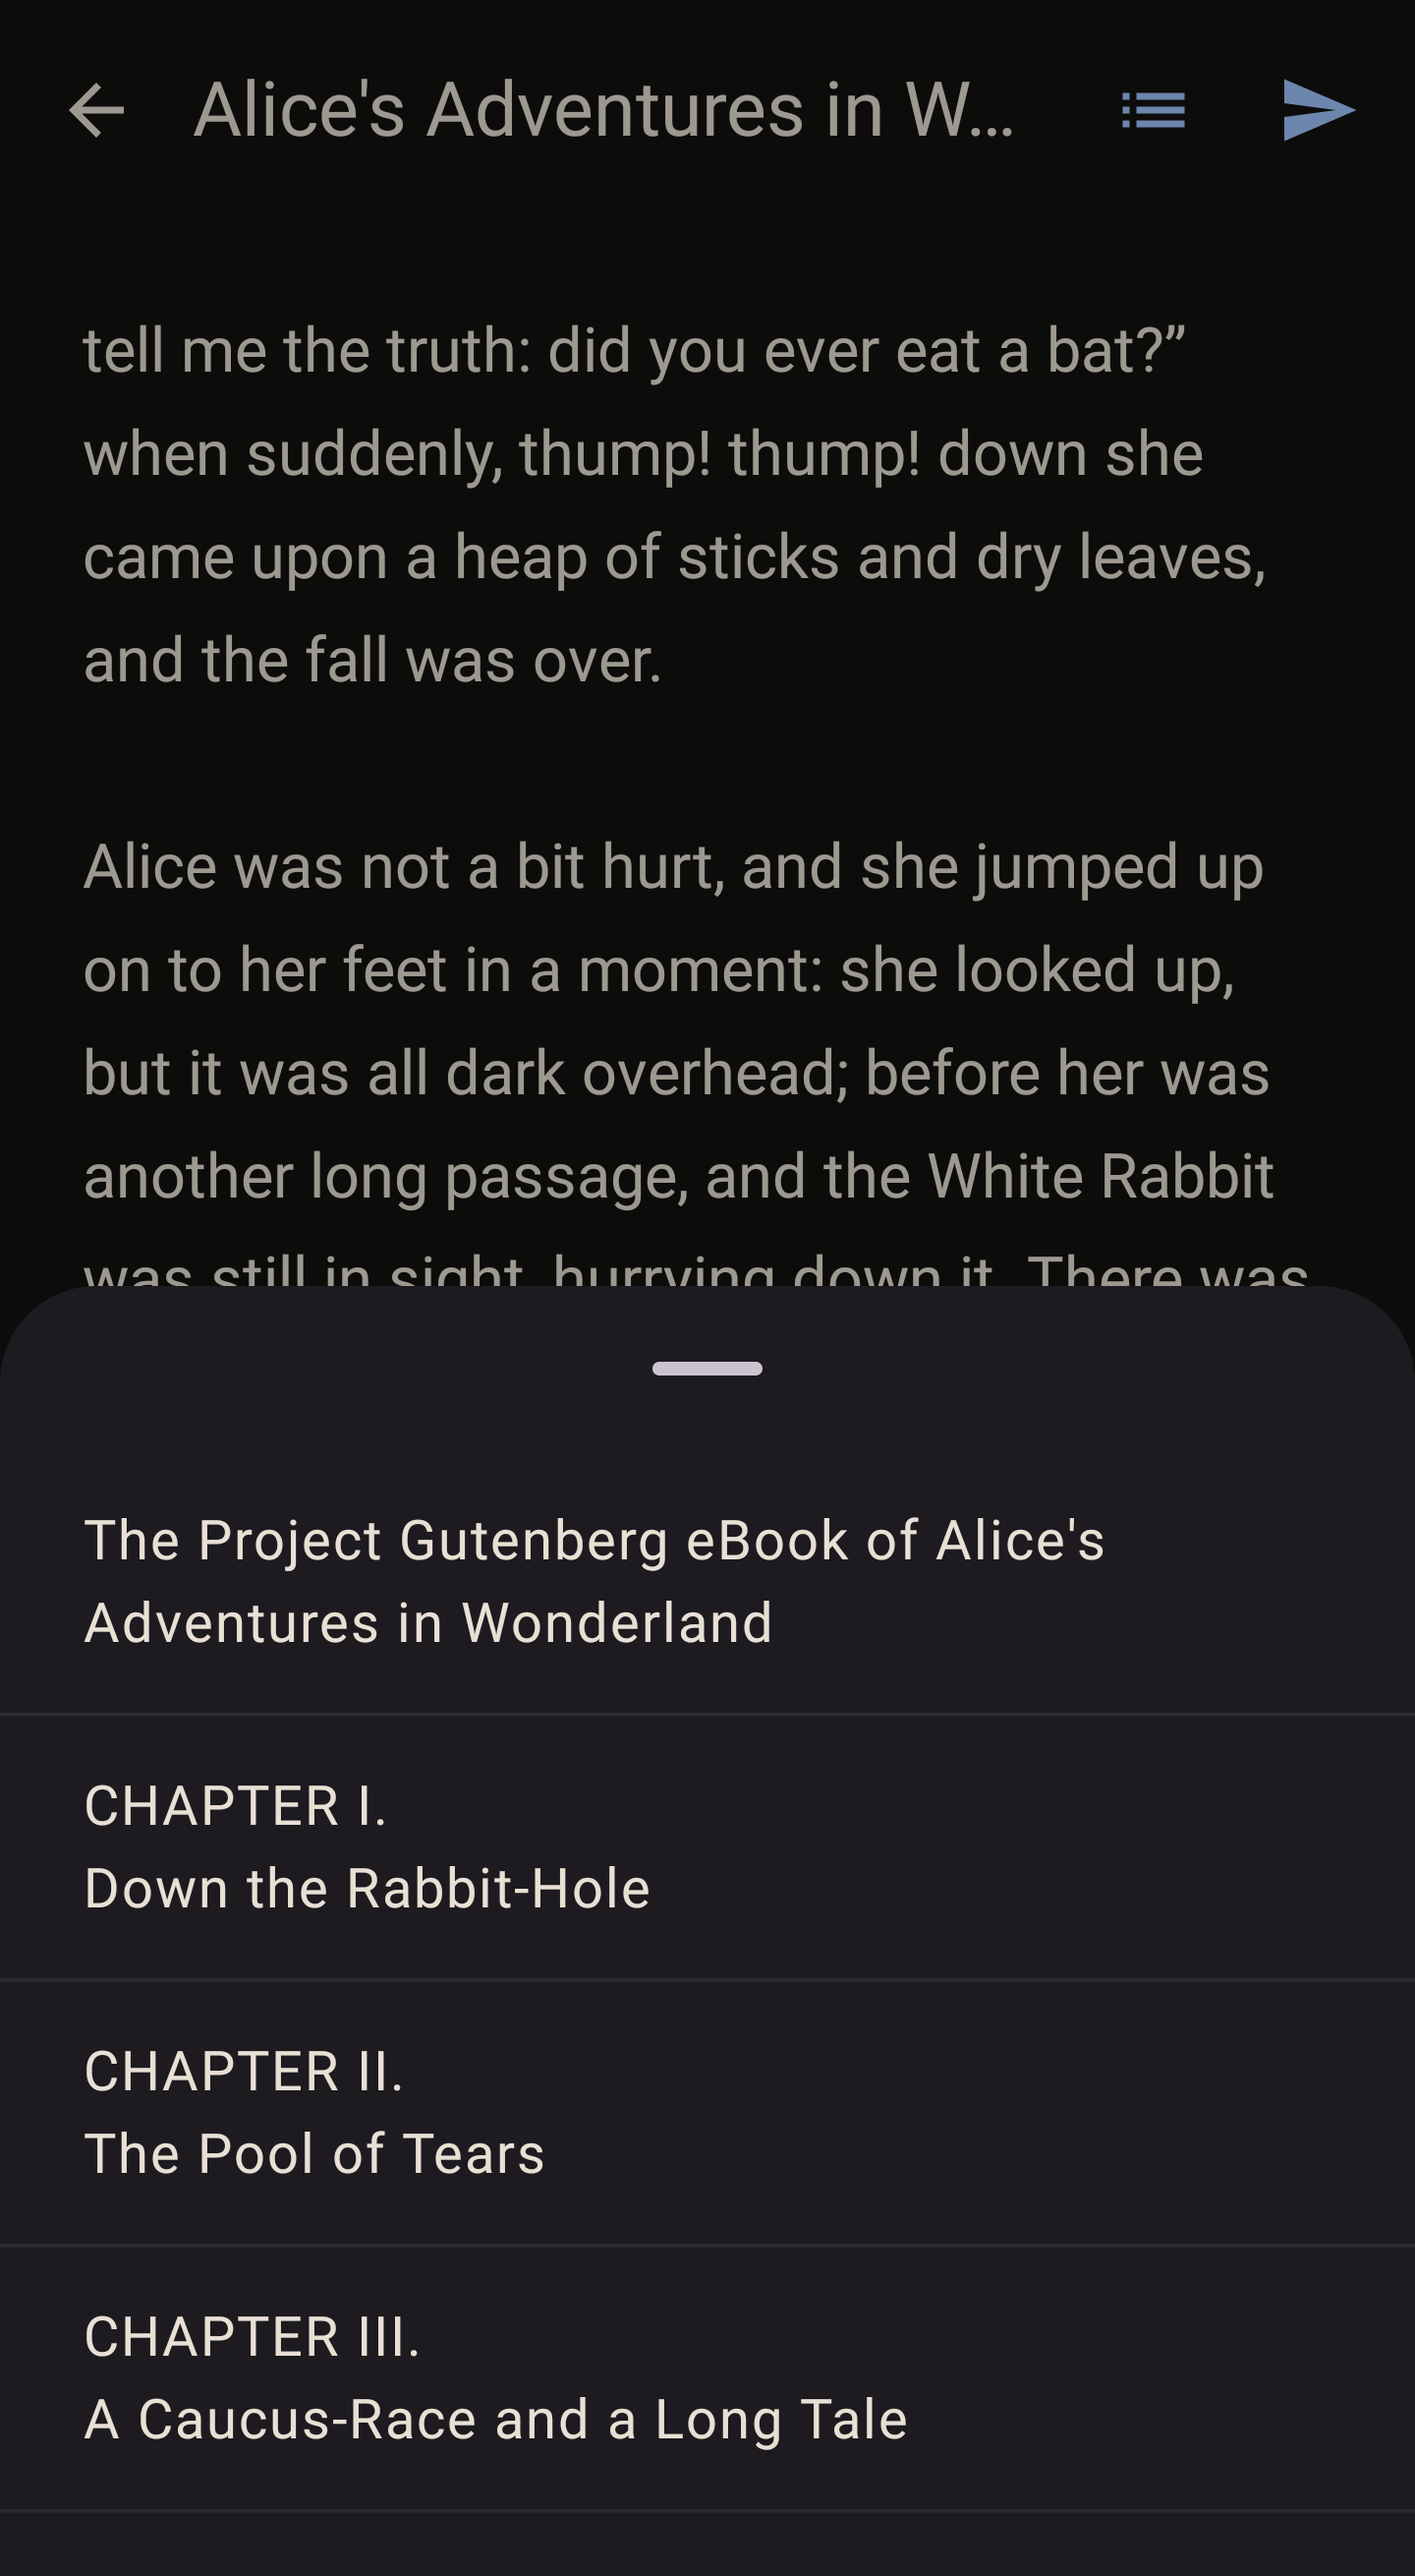
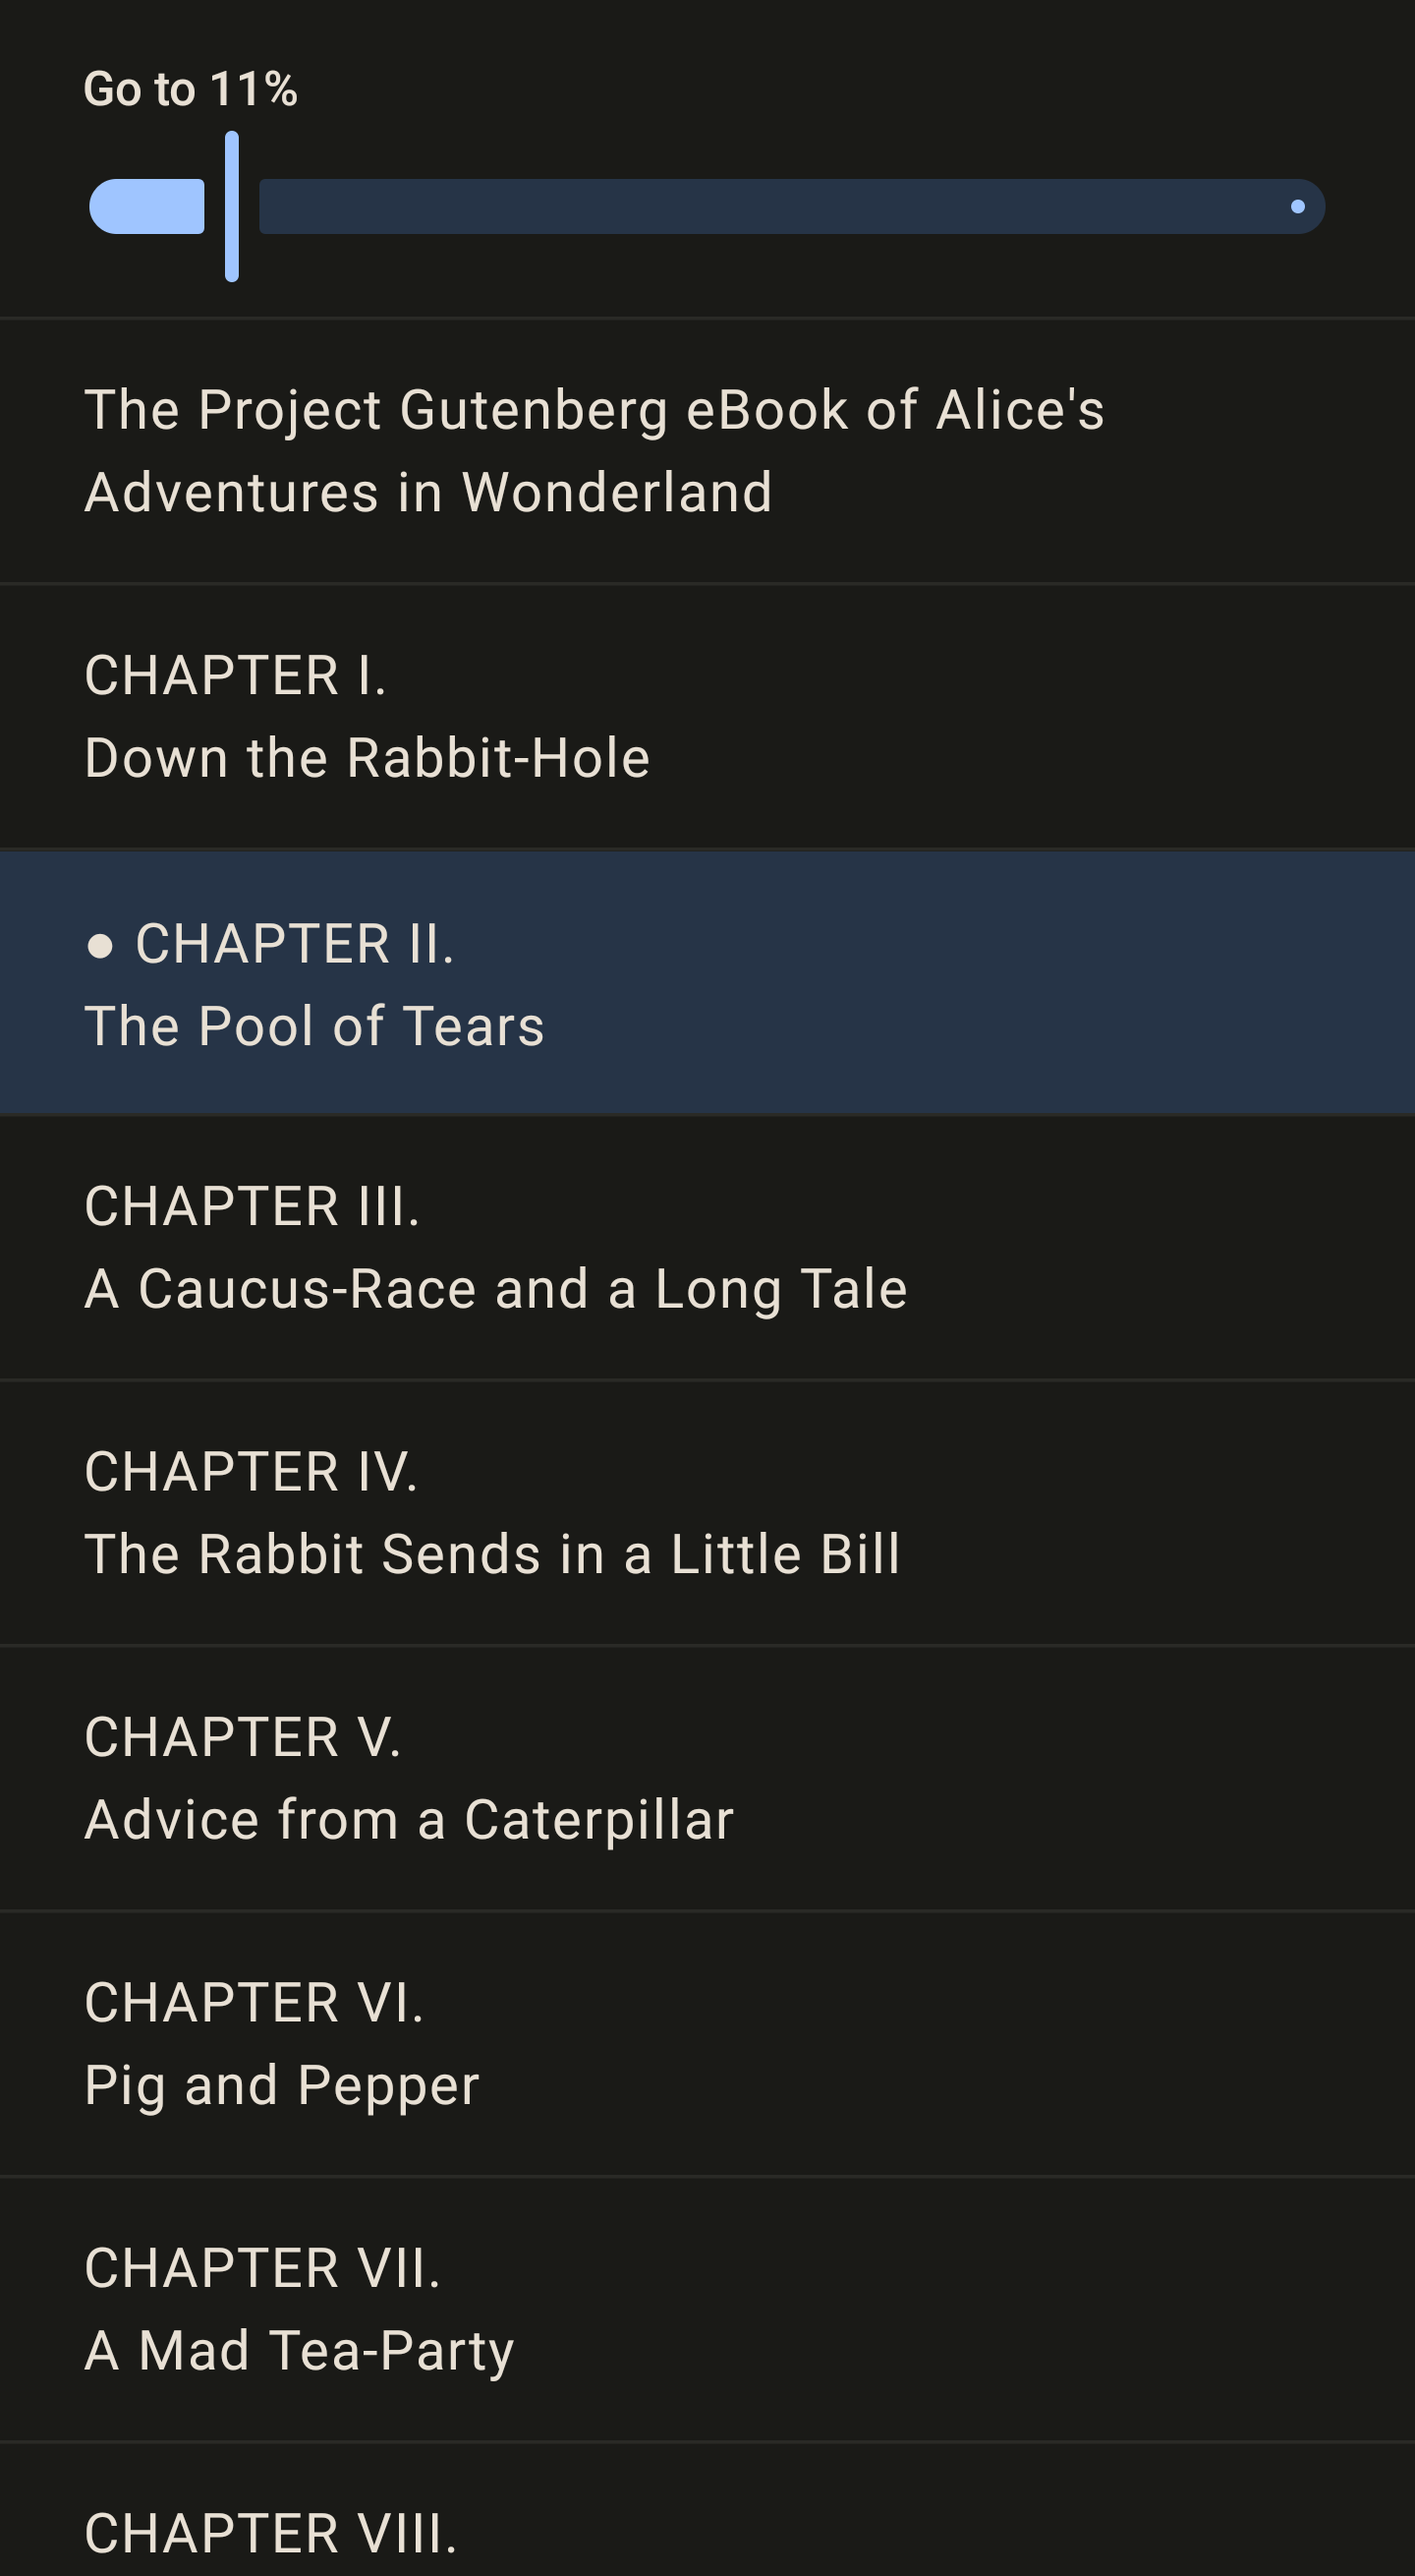
1.0.17: reading time, page colours, and the review fixes for Play
Version 1.0.17 (phone 100171, watch 100172) with release notes in
English and Chinese. New phone store screenshots: the library with
today's reading time and card menus, a sepia page, contents with the
percentage jump, the reading time page, and adding a book.

The contents slider starts at the percentage the page shows and
truncates like it, so it no longer read 12% over a page showing 11%.

Changed region(s): [[0.0, 0.0309, 1.0, 0.5565], [0.0625, 0.5565, 0.7812, 0.742], [0.0625, 0.7729, 0.6562, 0.9893]]

diff --git a/mobile/src/main/java/com/watchreader/mobile/ui/screen/ReaderScreen.kt b/mobile/src/main/java/com/watchreader/mobile/ui/screen/ReaderScreen.kt
@@ -334,10 +334,11 @@ fun ReaderScreen(
                 val currentIndex = chapters.indexOfLast { it.start <= pageStart }
                 // The slider stays above the list rather than scrolling with it, so it is there
                 // however far down the current chapter is.
-                var target by remember { mutableFloatStateOf(if (ready.totalChars == 0) 0f else pageStart.toFloat() / ready.totalChars) }
+                // It starts at the percentage the page shows, truncated the same way.
+                var target by remember { mutableFloatStateOf(ready.fraction) }
                 Column(Modifier.padding(horizontal = 24.dp).padding(bottom = 8.dp)) {
                     Text(
-                        stringResource(R.string.reader_go_to, (target * 100).roundToInt()),
+                        stringResource(R.string.reader_go_to, (target * 100).toInt()),
                         color = MaterialTheme.colorScheme.onSurface,
                         style = MaterialTheme.typography.titleSmall,
                     )
